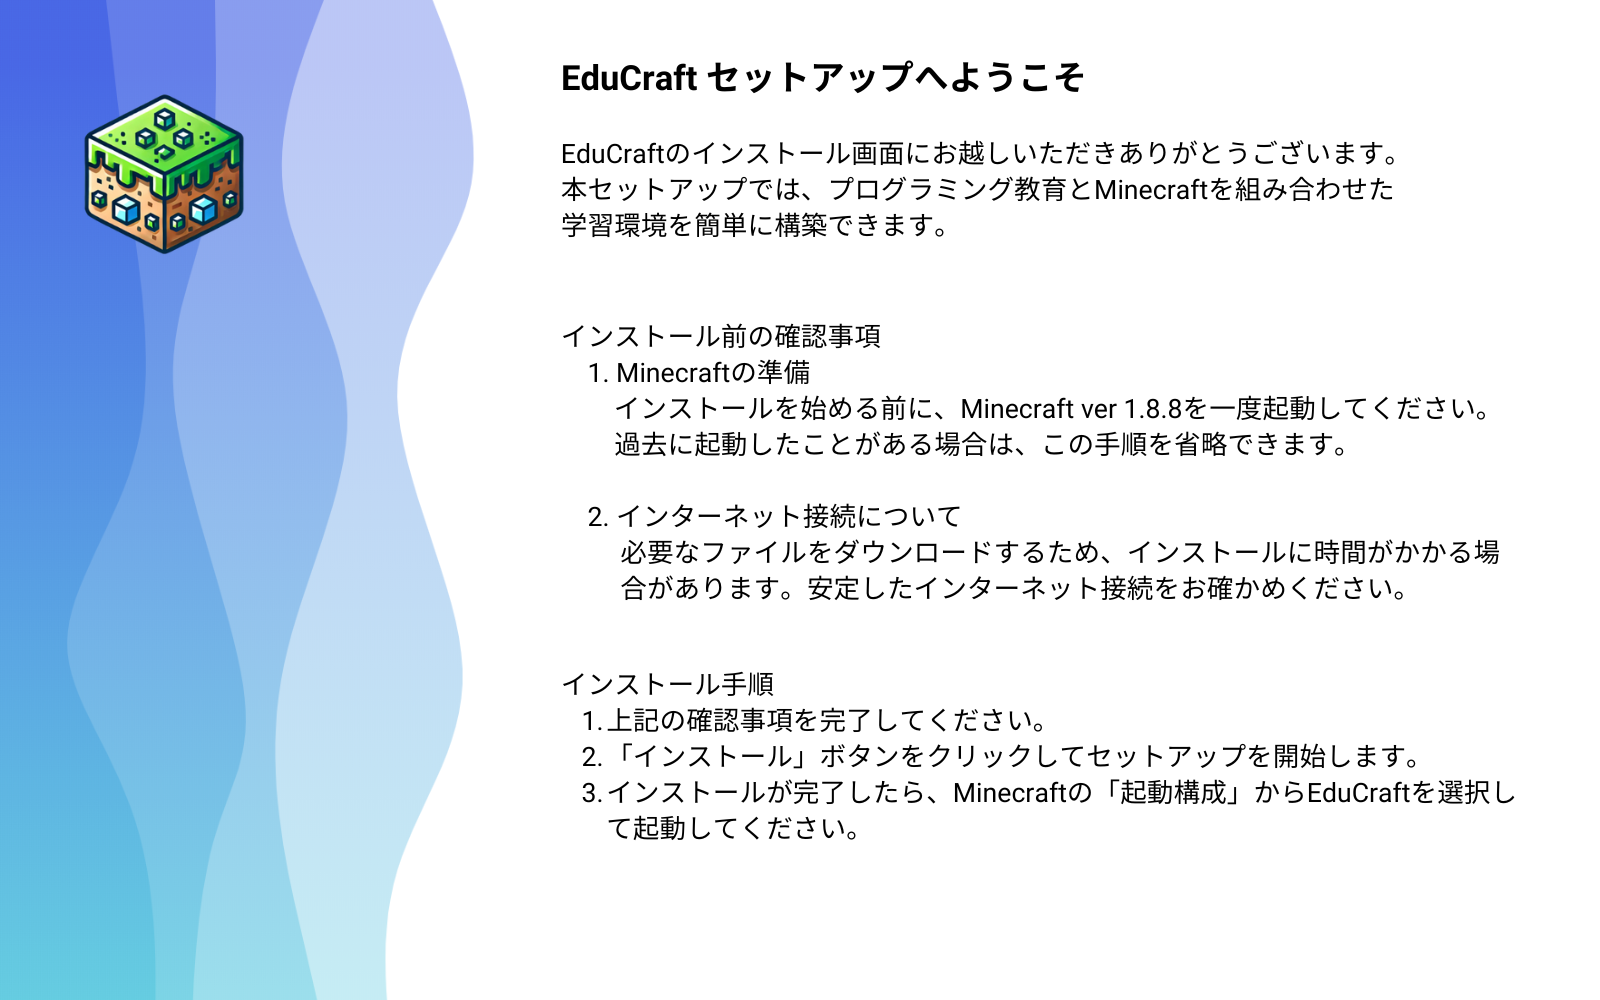
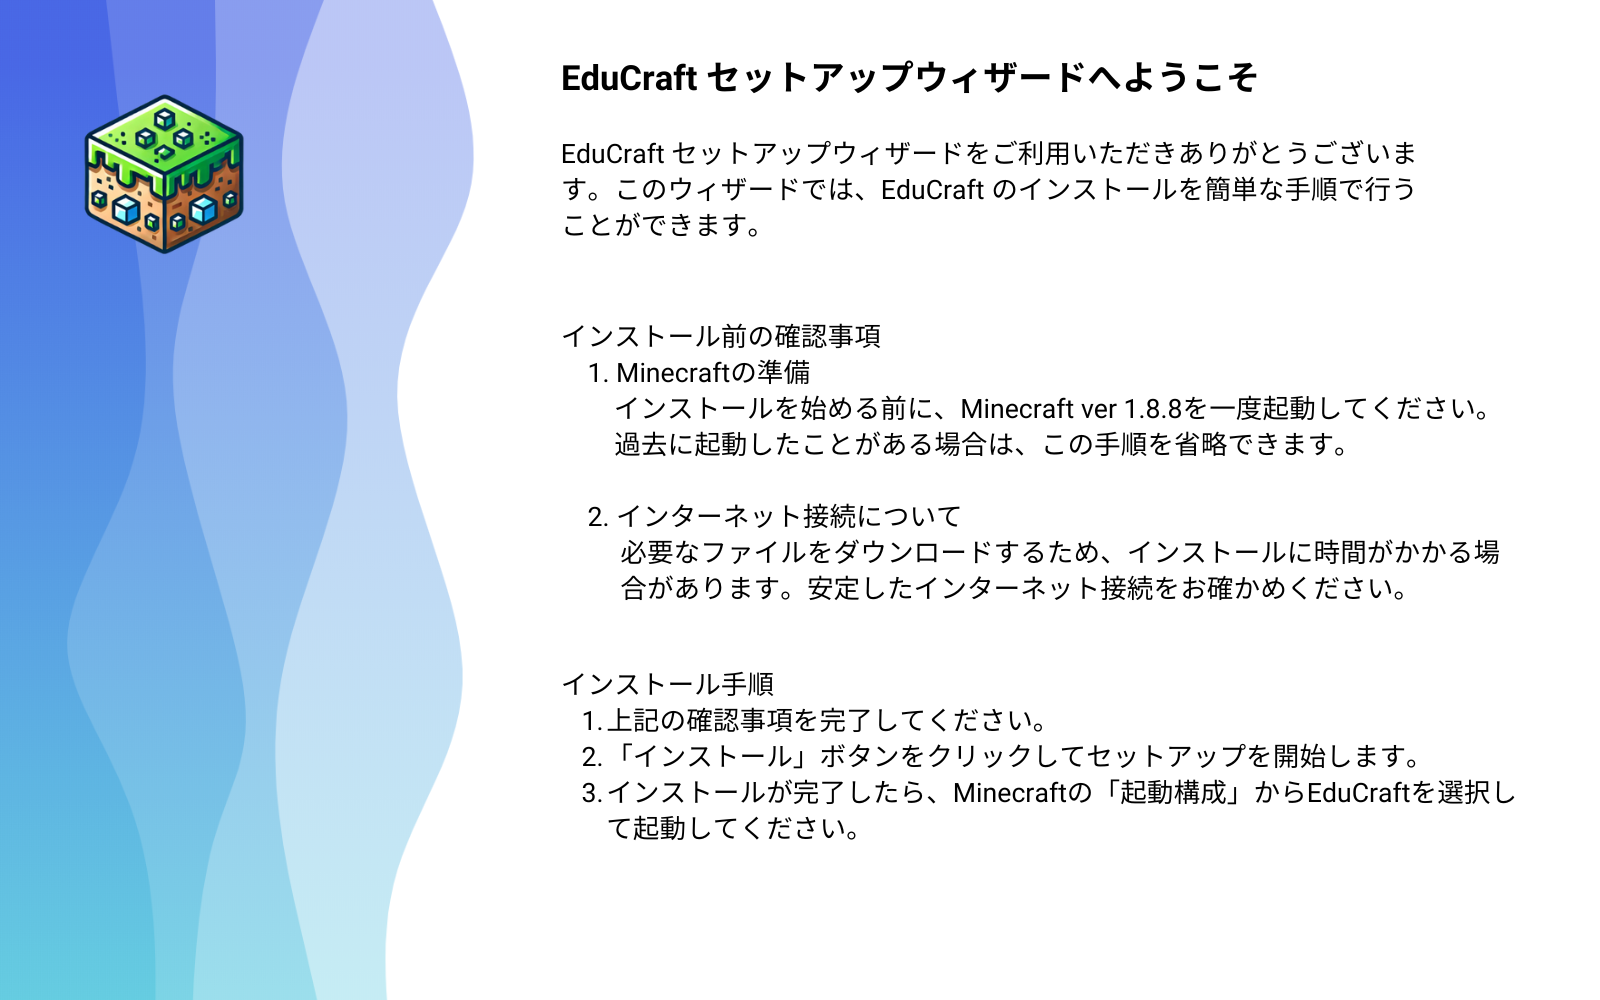
画像変更

Changed region(s): [[0.3438, 0.124, 0.875, 0.248], [0.5625, 0.062, 0.7812, 0.093]]

diff --git a/app.py b/app.py
@@ -116,14 +116,14 @@ def extract_zip(zip_path, extract_to):
 # キャンセルボタンの処理
 def cancel_download():
     winsound.MessageBeep(winsound.MB_ICONHAND)  # 警告音を鳴らす
-    confirm = messagebox.askyesno("EduCraft - Installer", "EduCraft セットアップを中止しますか？")
+    confirm = messagebox.askyesno("EduCraft セットアップ", "EduCraft セットアップを中止しますか？")
     if confirm:
         cancel_flag.set()  # キャンセルフラグをセット
         root.quit()  # GUIを閉じる
 
 # GUI作成
 root = tk.Tk()
-root.title("EduCraft - Installer")
+root.title("EduCraft セットアップ")
 root.geometry("800x500")  # ウィンドウのサイズを800x500に変更
 root.resizable(False, False)  # ウィンドウのリサイズを無効化
 
